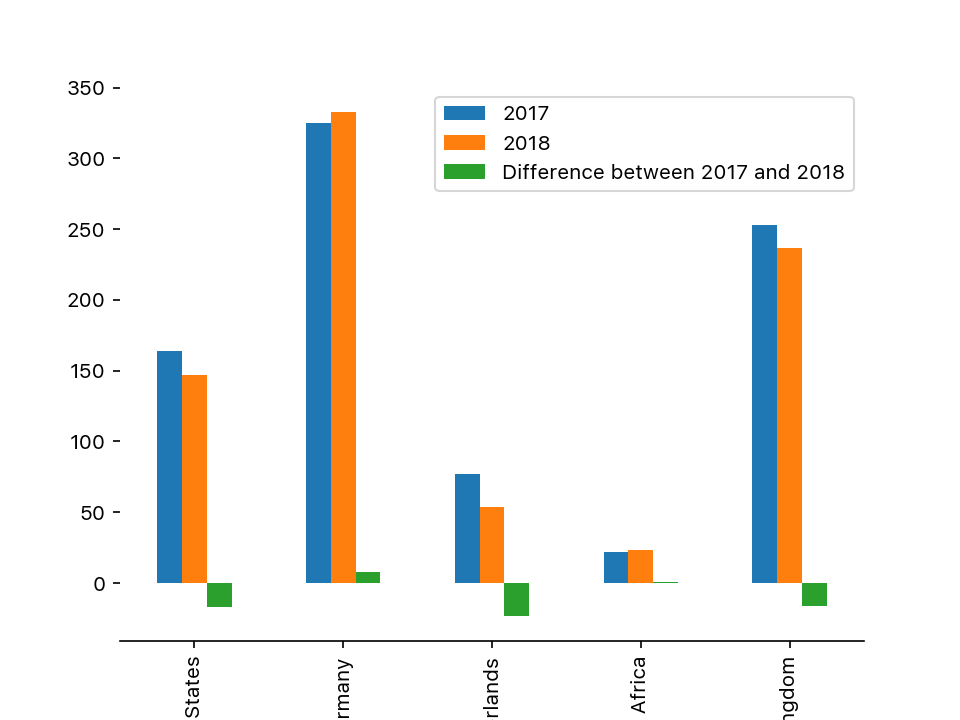
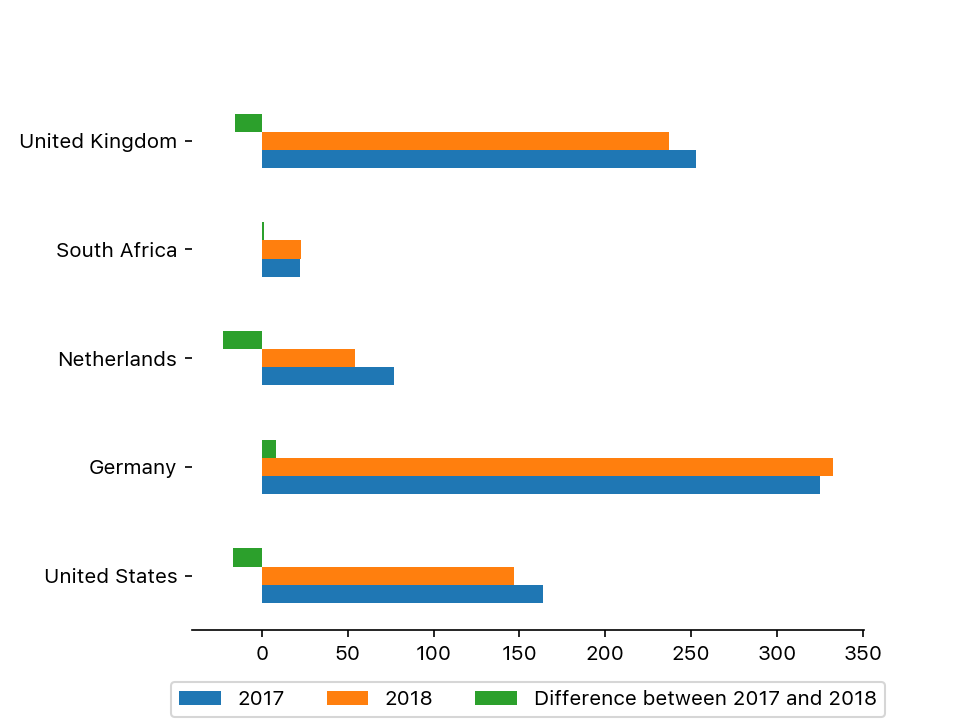
overview: Make difference bar plot horizontal

diff --git a/docs/overview_and_sampling.py b/docs/overview_and_sampling.py
@@ -130,7 +130,10 @@ def run(survey_year, data="data/public_merged.csv"):
     report.update(table("difference_with_previous_year", diff_year_participants))
 
     # Plotting the difference
-    ax = diff_year_participants.plot(kind="bar")
+    fig, ax = plt.subplots()
+    fig.subplots_adjust(left=0.2, bottom=0.125)
+    ax = diff_year_participants.plot(kind="barh", ax=ax)
+    ax.legend(loc='lower center', ncol=3, bbox_to_anchor=(0.5, -0.18))
     ax.spines["top"].set_visible(False)
     ax.spines["right"].set_visible(False)
     ax.spines["left"].set_visible(False)
